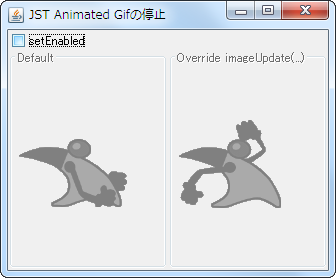
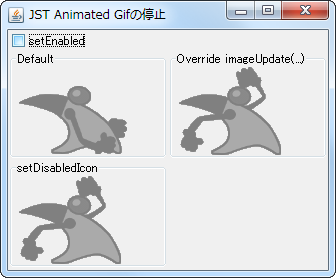
Add setDisabledIcon example

Changed region(s): [[0.0298, 0.2014, 0.9821, 0.9784], [0.0893, 0.0288, 0.3274, 0.0863], [0.3571, 0.0288, 0.4762, 0.0863]]

diff --git a/trunk/DisableAnimatedGif/src/java/example/MainPanel.java b/trunk/DisableAnimatedGif/src/java/example/MainPanel.java
@@ -3,6 +3,7 @@ package example;
 // vim:set fileencoding=utf-8:
 //@homepage@
 import java.awt.*;
+//import java.awt.color.*;
 import java.awt.event.*;
 import java.awt.image.*;
 import javax.swing.*;
@@ -17,9 +18,10 @@ class MainPanel extends JPanel {
             return super.imageUpdate(img, infoflags, x, y, w, h);
         }
     };
+    private final JLabel label3 = new JLabel();
     private MainPanel() {
         super(new BorderLayout());
-        Icon icon = new ImageIcon(getClass().getResource("duke.running.gif"));
+        ImageIcon icon = new ImageIcon(getClass().getResource("duke.running.gif"));
         label1.setIcon(icon);
         label1.setEnabled(false);
         label1.setBorder(BorderFactory.createTitledBorder("Default"));
@@ -28,24 +30,40 @@ class MainPanel extends JPanel {
         label2.setEnabled(false);
         label2.setBorder(BorderFactory.createTitledBorder("Override imageUpdate(...)"));
 
+        label3.setIcon(icon);
+        label3.setEnabled(false);
+        label3.setBorder(BorderFactory.createTitledBorder("setDisabledIcon"));
+        ImageIcon i = new ImageIcon(getClass().getResource("duke.running_frame_0001.gif"));
+        label3.setDisabledIcon(makeDisabledIcon(i));
+
         JCheckBox check = new JCheckBox(new AbstractAction("setEnabled") {
             @Override public void actionPerformed(ActionEvent e) {
                 JCheckBox c = (JCheckBox)e.getSource();
                 label1.setEnabled(c.isSelected());
                 label2.setEnabled(c.isSelected());
-                //if(disabledIcon==null) makeDisabledIcon(label2.getIcon());
-                //label2.setDisabledIcon(c.isSelected()?null:disabledIcon);
+                label3.setEnabled(c.isSelected());
             }
         });
-        JPanel p = new JPanel(new GridLayout(1, 2));
+        JPanel p = new JPanel(new GridLayout(2, 2));
         p.add(label1);
         p.add(label2);
+        p.add(label3);
         add(check, BorderLayout.NORTH);
         add(p);
         //setBorder(BorderFactory.createEmptyBorder(20,40,20,40));
         setPreferredSize(new Dimension(320, 240));
     }
-
+    private static Icon makeDisabledIcon(ImageIcon icon) {
+        Image img = icon.getImage();
+//         BufferedImage source = new BufferedImage(img.getWidth(null), img.getHeight(null), BufferedImage.TYPE_INT_ARGB);
+//         Graphics g = source.createGraphics();
+//         g.drawImage(img, 0, 0, null);
+//         g.dispose();
+//         ColorConvertOp colorConvert = new ColorConvertOp(ColorSpace.getInstance(ColorSpace.CS_GRAY), null);
+//         BufferedImage destination = colorConvert.filter(source, null);
+//         return new ImageIcon(destination);
+        return new ImageIcon(GrayFilter.createDisabledImage(img));
+    }
     public static void main(String[] args) {
         EventQueue.invokeLater(new Runnable() {
             @Override public void run() {
@@ -63,7 +81,7 @@ class MainPanel extends JPanel {
         frame.setDefaultCloseOperation(WindowConstants.EXIT_ON_CLOSE);
         frame.getContentPane().add(new MainPanel());
         frame.pack();
-        frame.setResizable(false);
+        //frame.setResizable(false);
         frame.setLocationRelativeTo(null);
         frame.setVisible(true);
     }
